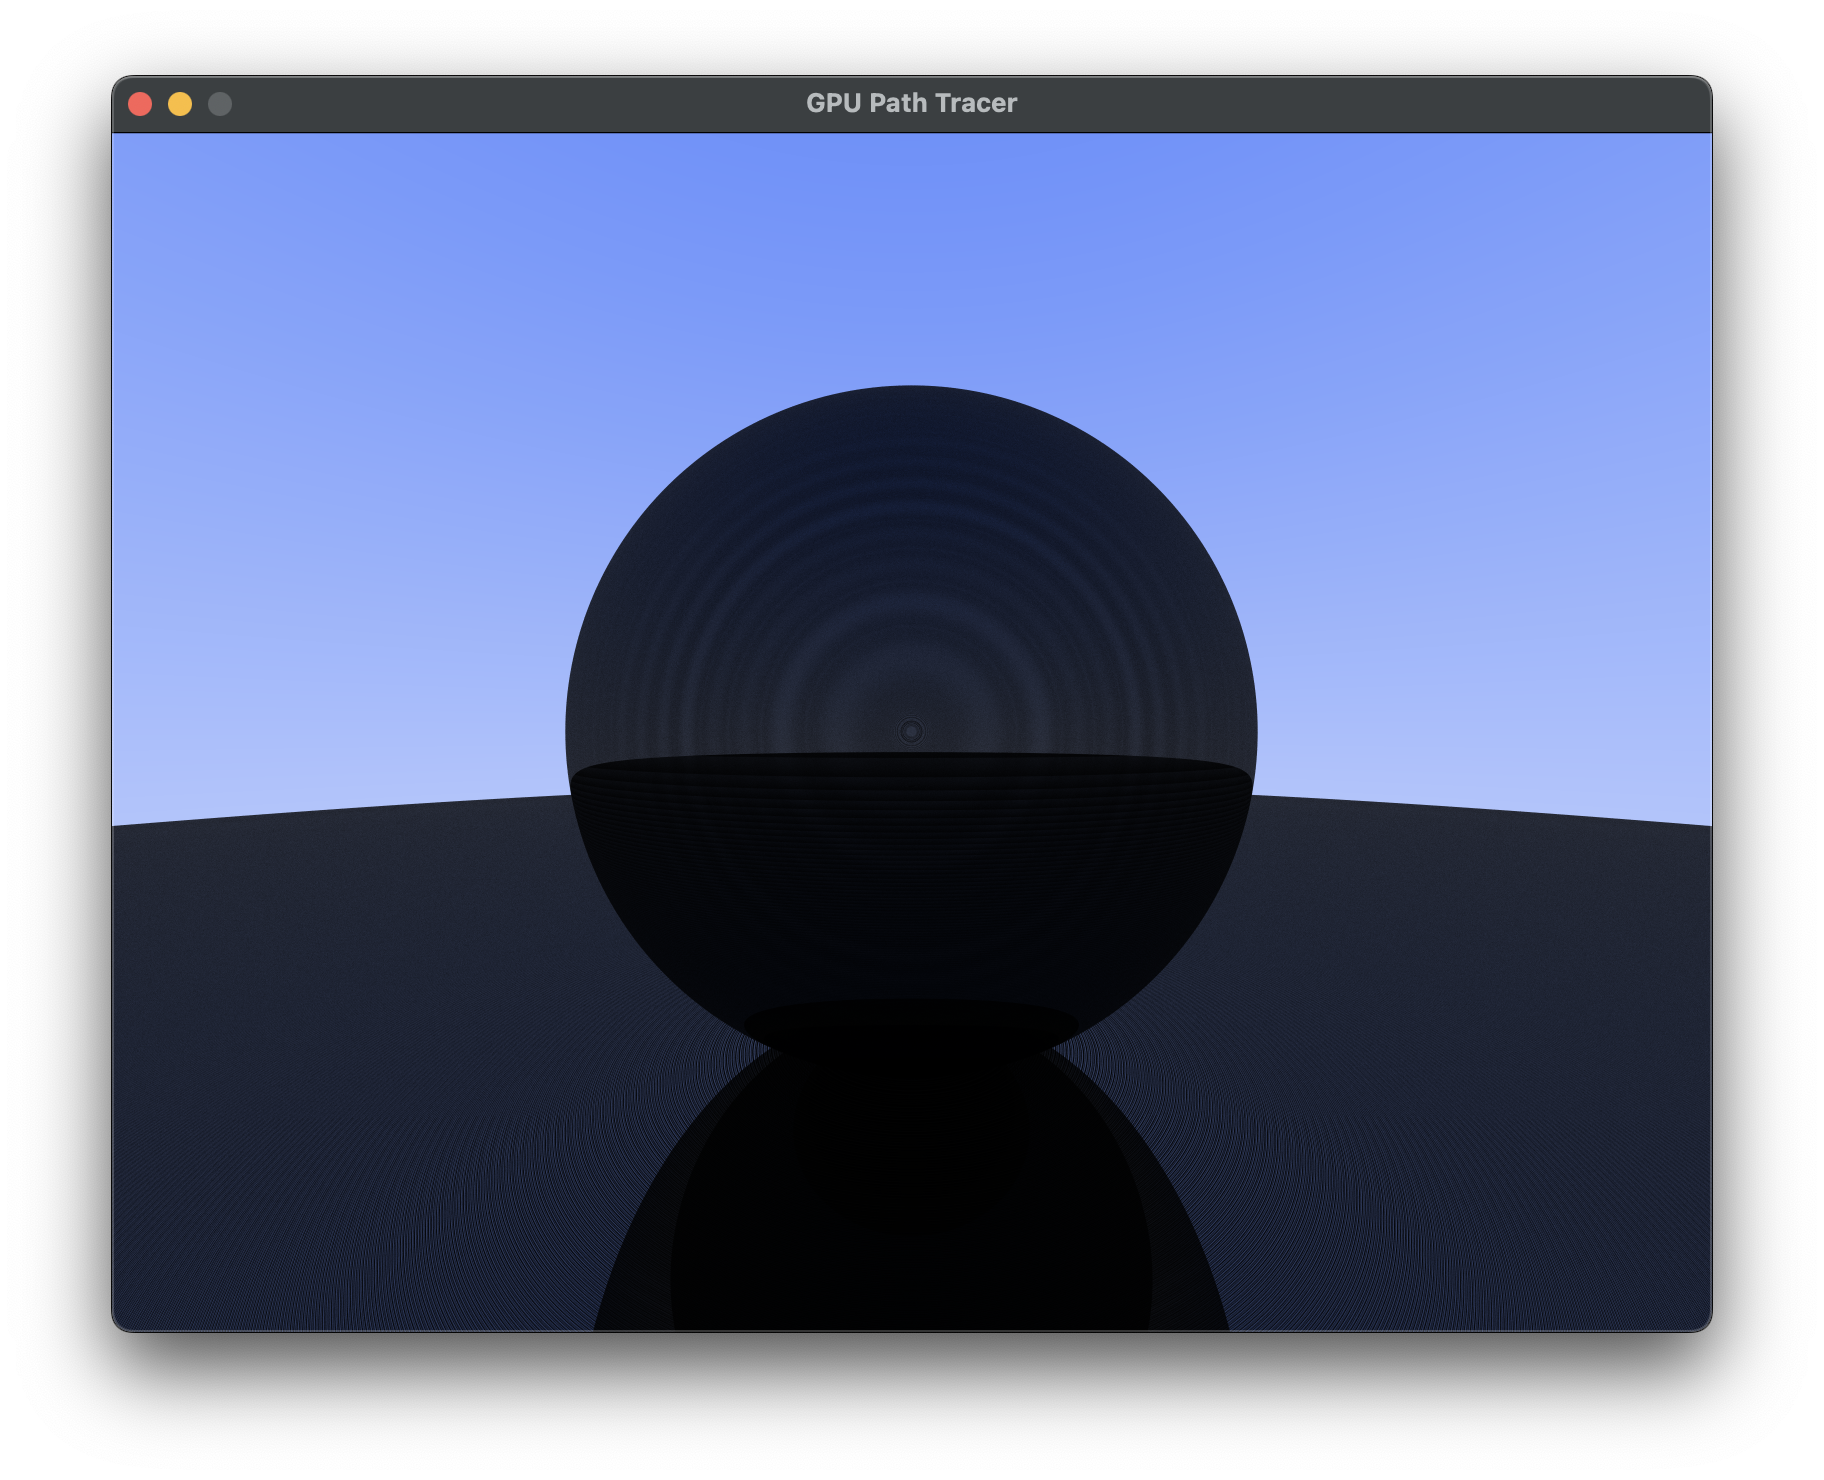
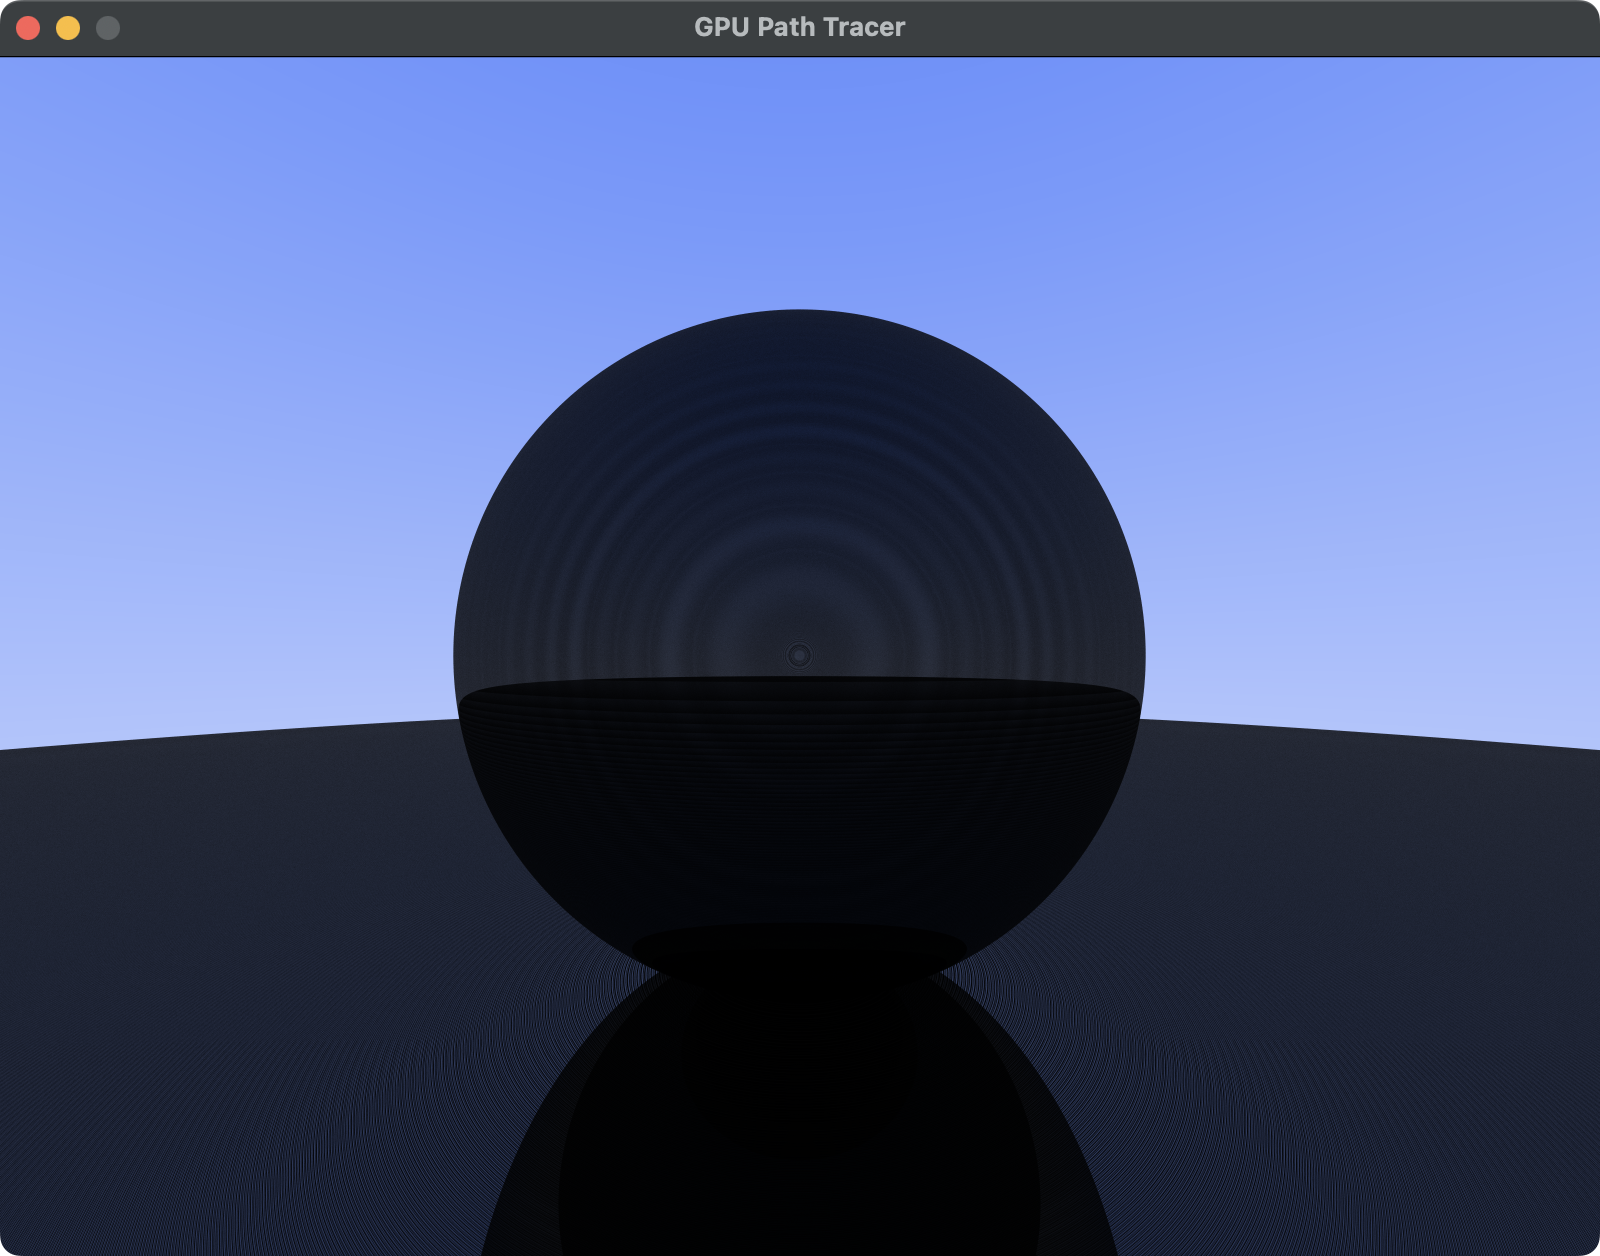
7.3 Gamma Correction

diff --git a/book/MovingToTheGPU.html b/book/MovingToTheGPU.html
@@ -3,7 +3,7 @@
 <link rel="icon" type="image/png" href="../favicon.png">
 <!-- Markdeep: https://casual-effects.com/markdeep/ -->
 
-                                      **Ray Tracing on a GPU**
+                                    **Ray Tracing: GPU Edition**
                                            [Arman Uguray][]
                                                 <br>
                                                 Draft
@@ -3840,11 +3840,58 @@ This code considers both `t1` and `t2` as `t2` (the farther point) could be a va
 the ray resulted from a surface refraction (e.g. for a glass-like material). Following this change,
 the rendering should look like this:
 
-  ![Figure [invalid-scatter-without-shadow-acne]: Validating the path tracing loop
+  ![Figure [shadow-acne-fixed]: Validating the path tracing loop
    ](../images/img-19-mirror-reflection-no-acne.png)
 
-That looks much cleaner. We can see reflections now and both spheres have acquired a blue tint from
-light paths that reach the sky.
+That looks much cleaner. Some reflections are visible and both spheres have acquired a blue tint
+where light paths eventually reach the sky. Some light paths bounce back and forth between both
+spheres. Each bounce is an "absorption event" that decreases the path throughput. The image looks
+darker with more absorptions, which is most apparent where the two spheres meet.
+
+Gamma Correction
+----------------
+Right now, this image looks a bit too dark. The perceived brightness (or luminance) of a pixel
+should ideally scale linearly with the stored radiance value. In other words, if a material absorbs
+50% of the radiance arriving directly from the sky, it should appear half as dark as the sky.
+However, the reflections of both spheres become nearly invisible after only three ray bounces.
+
+This is because the surface texture expects pixel values to be _gamma encoded_. Our eyes are more
+sensitive to changes in dark tones than they are to similar changes in bright tones. Given that
+we only have a fixed range to represent pixel's luminance ($\[0, 1\]$), it is more efficient (in
+terms of storage) to allocate a bigger numerical range for smaller radiance values. This is how
+digital images usually get stored and virtually all displays apply _gamma correction_ while
+converting pixel values to light.[^ch7-footnote4]
+
+The formula for gamma ($\gamma$) encoding is $V_{out} = V_{in}^{\frac{1}{\gamma}}$. We can apply
+this function in the fragment shader right before outputting the color:
+
+    ~~~~~~~~~~~~~~~~~~~~~~~~~~~~~~~~~~~~~~~~~~~~~~~~~~~~~~~~~~~~~~~~~~~~~~~~~~~~~~~~~~~~~~~~~~ WGSL
+    @fragment fn display_fs(@builtin(position) pos: vec4f) -> @location(0) vec4f {
+      ...
+      // Compute and store the new sum.
+      let new_sum = radiance_sample + old_sum;
+      textureStore(radiance_samples_new, vec2u(pos.xy), vec4(new_sum, 0.));
+
+
+    ~~~~~~~~~~~~~~~~~~~~~~~~~~~~~~~~~~~~~~~~~~~~~~~~~~~~~~~~~~~~~~~~~~~~~~~~~~~~~~~~ WGSL highlight
+      // Display the average after gamma correction (gamma = 2.2)
+      let color = new_sum / f32(uniforms.frame_count);
+      return vec4(pow(color, vec3(1. / 2.2)), 1.);
+    ~~~~~~~~~~~~~~~~~~~~~~~~~~~~~~~~~~~~~~~~~~~~~~~~~~~~~~~~~~~~~~~~~~~~~~~~~~~~~~~~~~~~~~~~~~ WGSL
+    }
+    ~~~~~~~~~~~~~~~~~~~~~~~~~~~~~~~~~~~~~~~~~~~~~~~~~~~~~~~~~~~~~~~~~~~~~~~~~~~~~~~~~~~~~~~~~~~~~~~
+    [Listing [gamma-2.2]: <kbd>[shaders.wgsl]</kbd> Encoding a pixel with $\gamma = 2.2$]
+
+The gamma corrected output should look like this:
+
+  ![Figure [gamma-correction]: Gamma-correction](../images/img-20-gamma-correction.png)
+
+
+Some platforms support textures with a _sRGB_ format. Pixels automatically undergo gamma compression
+(or decompression) upon writes and reads to sRGB textures. You can try this yourself: instead of
+applying gamma correction in the shader, change all instances of `Rgba8Unorm` and `Bgra8Unorm` in
+`src/main.rs` and `src/render.rs` to `Rgba8UnormSrgb` and `Bgra8UnormSrgb`. You should see a similar
+result if your platform supports sRGB surfaces.
 
 
 [^ch7-footnote3]: This RGB representation is simple and works well for most cases but cannot
@@ -3852,9 +3899,8 @@ accurately represent effects like diffraction and interference. There are altern
 representations to handle such phenomena, for example by storing a power distribution across a
 spectrum of constituent wavelengths.
 
-Tone Mapping
-------------
-TODO:
+[^ch7-footnote4]: [_Understanding Gamma Correction_](https://www.cambridgeincolour.com/tutorials/gamma-correction.htm)
+(by Cambridge in Color) is a great short read on the topic.
 
                                (insert acknowledgments.md.html here)
 

diff --git a/index.html b/index.html
@@ -5,7 +5,7 @@
 <link rel="icon" type="image/png" href="favicon.png">
 
 <div class="content">
-    <h1 class="title">GPU Ray Tracing</h1>
+    <h1 class="title">Ray Tracing (GPU Edition)</h1>
     <p>
       This is the landing page for an in-progress book on GPU ray tracing. The living draft
       of the first book can be viewed at <a href="book/MovingToTheGPU.html">here</a>.
